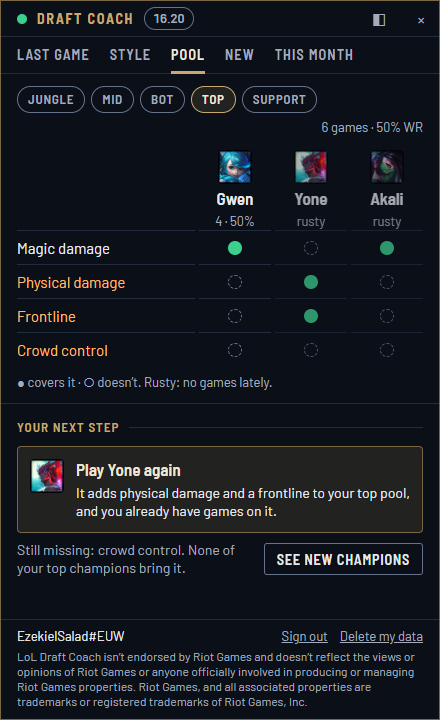
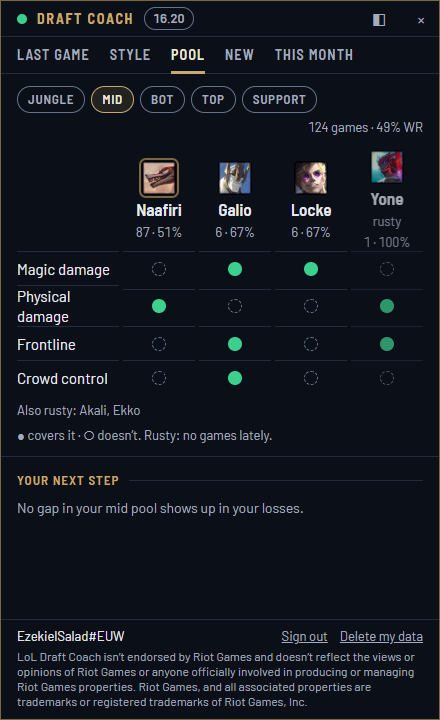
fix(desktop): Pool shows the record of learning and rusty champions with games
Claude-Session: https://claude.ai/code/session_01RvQwAKKTeZYBPYF26nBuBm

diff --git a/apps/desktop/src/renderer/components/PoolCoverage.tsx b/apps/desktop/src/renderer/components/PoolCoverage.tsx
@@ -6,7 +6,7 @@ const known = (c: PoolChampView) => c.tier === "main" || c.tier === "comfortable
 
 /**
  * Your pool against what a team needs: a column per champion (main and comfortable first,
- * learning and rusty dimmed), a row per need, a filled dot where the champion brings it.
+ * learning and rusty dimmed, with their record when they have games), a row per need, a filled dot where the champion brings it.
  * A need nothing you know well brings is in amber; a champion without measured attributes shows "—".
  */
 export function PoolCoverage({ pool, coverage }: { pool: PoolChampView[]; coverage: PoolCoverageView }) {
@@ -17,7 +17,9 @@ export function PoolCoverage({ pool, coverage }: { pool: PoolChampView[]; covera
         <span key={c.champion.id} className={cx("mx-head", !known(c) && "dim")} role="columnheader">
           <ChampIcon champ={c.champion} size={34} framed={c.tier === "main"} />
           <span className="t-heading">{c.champion.name}</span>
-          <span className="micro">{known(c) ? `${c.games} · ${rate(c.winRate)}` : c.tierLabel.toLowerCase()}</span>
+          {!known(c) && <span className="micro">{c.tierLabel.toLowerCase()}</span>}
+          {/* Learning (or getting back into) a champion: its record so far, too. */}
+          {(known(c) || c.games > 0) && <span className="micro">{`${c.games} · ${rate(c.winRate)}`}</span>}
         </span>
       ))}
       {coverage.needs.map((n) => [
